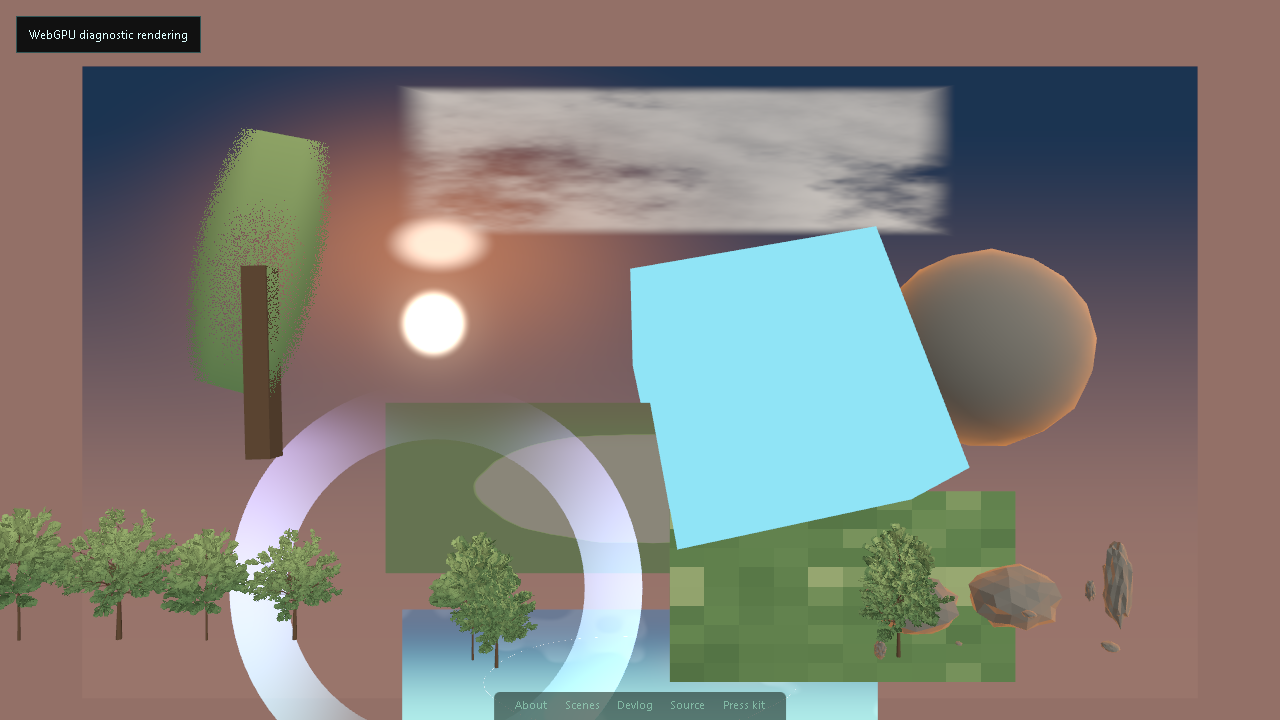
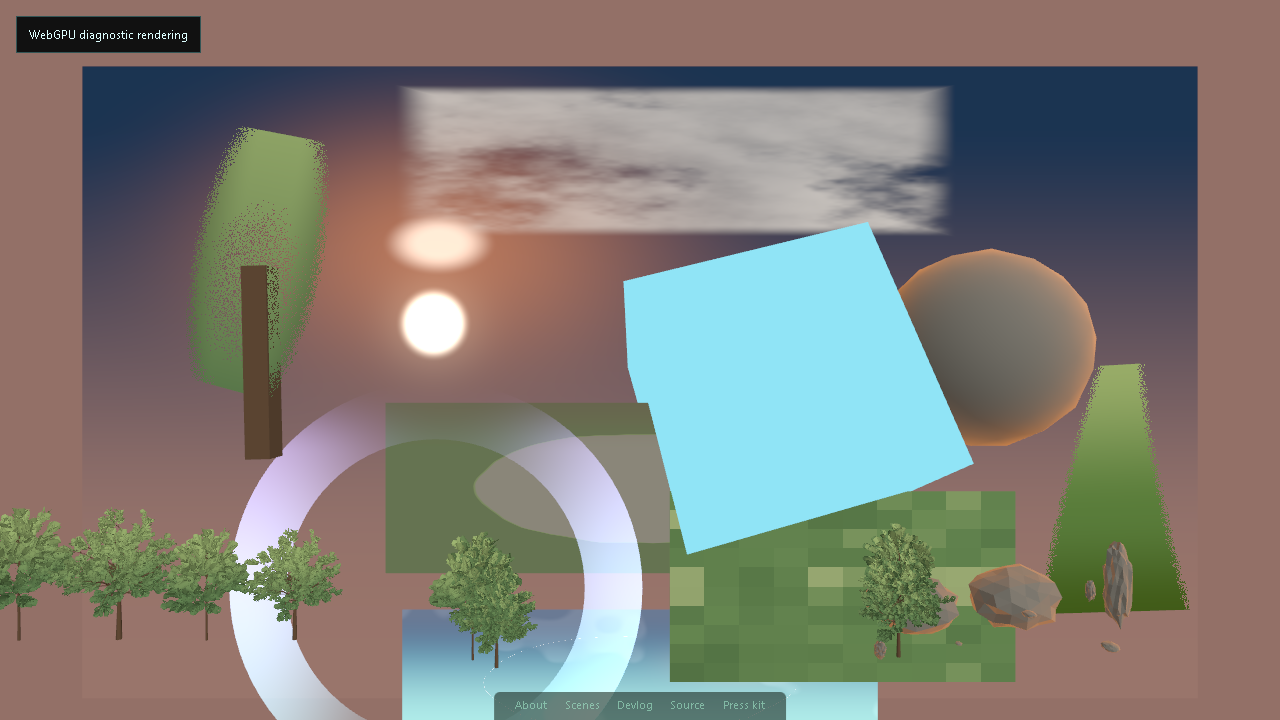
feat(konveyor): add grass blade island

diff --git a/js/diagnostics/webgpuDiagnostic.js b/js/diagnostics/webgpuDiagnostic.js
@@ -275,6 +275,29 @@ export function createTreeLeafDiagnosticState() {
     };
 }
 
+export function createGrassBladeDiagnosticState(skyFog = createSkyFogDiagnosticState()) {
+    return {
+        baseColor: [0.08, 0.28, 0.04],
+        midColor: [0.18, 0.48, 0.12],
+        tipColor: [0.55, 0.82, 0.30],
+        windDirection: [0.7, 0.7],
+        windStrength: 0.12,
+        windSpeed: 0.6,
+        gustStrength: 0.05,
+        bladeHeight: 1.0,
+        sunColor: skyFog.sunColor,
+        sunDirection: skyFog.sunDirection,
+        fogColor: skyFog.fogColor,
+        fogNear: skyFog.fogNear,
+        fogFar: skyFog.fogFar,
+        alphaHash: true,
+        alphaTest: 0.06,
+        interaction: 'deferred',
+        distanceFade: 'deferred',
+        source: 'GrassSystem.shader-contract',
+    };
+}
+
 async function createDiagnosticHeightTexture({
     DataTexture,
     RedFormat,
@@ -394,6 +417,69 @@ function syncDiagnosticHeightfieldState(target, heightfield) {
     target.peakHeight = heightfield.peakHeight;
 }
 
+function createGrassBladeNodeMaterial({ MeshStandardNodeMaterial, DoubleSide, TSL }, grassBlade) {
+    const { abs, clamp, dot, float, length, max, mix, normalize, positionLocal, positionView, positionWorld, pow, sin, smoothstep, time, uv, vec2, vec3 } = TSL;
+    const bladeUv = uv();
+    const height01 = clamp(positionLocal.y.div(Math.max(grassBlade.bladeHeight, 0.001)), 0.0, 1.0);
+    const windDir = normalize(vec2(...grassBlade.windDirection));
+    const windPerp = vec2(-grassBlade.windDirection[1], grassBlade.windDirection[0]);
+    const windPower = height01.mul(height01);
+    const worldX = positionWorld.x;
+    const worldZ = positionWorld.z;
+    const gustFlow = time.mul(grassBlade.windSpeed * 1.5);
+    const gustA = sin(worldX.mul(0.045).add(worldZ.mul(0.038)).sub(gustFlow));
+    const gustB = sin(worldX.mul(0.022).add(worldZ.mul(0.029)).add(1.7).sub(gustFlow.mul(0.72)));
+    const gustEnv = smoothstep(-0.2, 1.0, gustA.mul(0.6).add(gustB.mul(0.4)));
+    const swayTime = time.mul(grassBlade.windSpeed);
+    const sway1 = sin(worldX.mul(0.13).add(worldZ.mul(0.09)).add(swayTime.mul(0.85)));
+    const sway2 = sin(worldX.mul(0.07).sub(worldZ.mul(0.11)).add(swayTime.mul(0.55)).add(1.3));
+    const sway = sway1.mul(0.6).add(sway2.mul(0.4));
+    const carrier = float(0.45).add(sway.mul(0.5).mul(float(0.4).add(gustEnv.mul(0.8))));
+    const tipMask = smoothstep(0.65, 1.0, height01);
+    const flutter = sin(worldX.mul(0.7).add(worldZ.mul(0.6)).add(time.mul(4.5)));
+    const windDisp = windDir.mul(carrier.mul(grassBlade.windStrength).mul(windPower))
+        .add(windPerp.mul(flutter.mul(0.06 * grassBlade.windStrength).mul(tipMask)));
+    const centerDist = abs(bladeUv.x.sub(0.5)).mul(2.0);
+    const taperWidth = mix(0.9, 0.18, height01);
+    const bladeShape = float(1.0).sub(smoothstep(taperWidth, taperWidth.add(0.16), centerDist));
+    const gradient = mix(
+        mix(vec3(...grassBlade.baseColor), vec3(...grassBlade.midColor), smoothstep(0.0, 0.4, height01)),
+        vec3(...grassBlade.tipColor),
+        smoothstep(0.4, 1.0, height01)
+    );
+    const colorVariation = smoothstep(-1.0, 1.0, sin(worldX.mul(0.2).add(worldZ.mul(0.15))));
+    const variation = vec3(
+        colorVariation.mul(0.08),
+        colorVariation.mul(0.05).sub(0.02),
+        colorVariation.mul(-0.03)
+    );
+    const ao = mix(0.7, 1.0, height01);
+    const sunLift = max(dot(normalize(vec3(...grassBlade.sunDirection)), vec3(0.0, 1.0, 0.0)), 0.0);
+    const sunTip = vec3(...grassBlade.sunColor).mul(tipMask.mul(sunLift).mul(0.16 + grassBlade.gustStrength));
+    const viewDir = normalize(positionView.negate());
+    const verticalRim = pow(max(dot(viewDir, vec3(0.0, 1.0, 0.0)), 0.0), 4.0);
+    const viewDistance = length(positionView);
+    const fogBlend = smoothstep(grassBlade.fogNear, grassBlade.fogFar, viewDistance).mul(0.55);
+
+    const material = new MeshStandardNodeMaterial();
+    material.name = 'konveyor-node-grass-blade';
+    material.colorNode = mix(
+        gradient.add(variation).mul(ao)
+            .add(sunTip)
+            .add(vec3(...grassBlade.tipColor).mul(verticalRim.mul(0.2).mul(tipMask))),
+        vec3(...grassBlade.fogColor),
+        fogBlend
+    );
+    material.opacityNode = bladeShape;
+    material.positionNode = positionLocal.add(vec3(windDisp.x, 0.0, windDisp.y));
+    material.roughnessNode = float(0.96);
+    material.metalnessNode = float(0.0);
+    material.alphaHash = grassBlade.alphaHash;
+    material.alphaTest = grassBlade.alphaTest;
+    material.side = DoubleSide;
+    return material;
+}
+
 function createSkyFogNodeMaterial({ MeshBasicNodeMaterial, TSL }, skyFog) {
     const { float, length, mix, pow, smoothstep, uv, vec2, vec3 } = TSL;
     const skyUv = uv();
@@ -495,18 +581,20 @@ export async function bootWebGpuDiagnostic() {
     const animeWater = createAnimeWaterDiagnosticState(skyFog);
     const terrainHeightfield = createTerrainHeightfieldDiagnosticState(skyFog);
     const treeLeaf = createTreeLeafDiagnosticState();
+    const grassBlade = createGrassBladeDiagnosticState(skyFog);
     const state = window.__sdsG = {
         ...(window.__sdsG || {}),
         r: true,
         requested: true,
         ok: false,
         renderer: 'webgpu',
-        islands: ['sun-billboard', 'portal-ring', 'meadow-quad', 'cloud-plane', 'sky-fog', 'rock-rim', 'tree-leaf', 'anime-water', 'terrain-heightfield', 'glb-material-replacement', 'runtime-glb-material-proof', 'runtime-glb-rendered-clones', 'production-placement-preview', 'production-instanced-tree-preview', 'diagnostic-rock-instancing-preview'],
+        islands: ['sun-billboard', 'portal-ring', 'meadow-quad', 'cloud-plane', 'sky-fog', 'rock-rim', 'tree-leaf', 'grass-blade', 'anime-water', 'terrain-heightfield', 'glb-material-replacement', 'runtime-glb-material-proof', 'runtime-glb-rendered-clones', 'production-placement-preview', 'production-instanced-tree-preview', 'diagnostic-rock-instancing-preview'],
         skyFog,
         rockRim,
         animeWater,
         terrainHeightfield,
         treeLeaf,
+        grassBlade,
         materialReplacement: null,
         runtimeGlbReplacement: null,
         runtimeGlbPreview: null,
@@ -723,6 +811,16 @@ export async function bootWebGpuDiagnostic() {
     terrainPatch.position.set(0.0, -0.34, 0.08);
     scene.add(terrainPatch);
 
+    const grassBladeGeometry = new PlaneGeometry(0.58, grassBlade.bladeHeight, 4, 8);
+    grassBladeGeometry.translate(0, grassBlade.bladeHeight * 0.5, 0);
+    const grassBladeMesh = new Mesh(
+        grassBladeGeometry,
+        createGrassBladeNodeMaterial({ MeshStandardNodeMaterial, DoubleSide, TSL }, grassBlade)
+    );
+    grassBladeMesh.position.set(1.92, -0.82, 0.2);
+    grassBladeMesh.rotation.set(0, -0.08, 0.06);
+    scene.add(grassBladeMesh);
+
     const cloudPlane = new Mesh(
         new PlaneGeometry(2.4, 0.65, 1, 1),
         createCloudPlaneNodeMaterial({ MeshBasicNodeMaterial, DoubleSide, TSL })
@@ -773,6 +871,8 @@ export async function bootWebGpuDiagnostic() {
         water.material.dispose();
         terrainPatch.geometry.dispose();
         terrainPatch.material.dispose();
+        grassBladeMesh.geometry.dispose();
+        grassBladeMesh.material.dispose();
         waterHeightTexture.dispose();
         cloudPlane.geometry.dispose();
         cloudPlane.material.dispose();

diff --git a/tests/webgpu-diagnostic.spec.js b/tests/webgpu-diagnostic.spec.js
@@ -3,6 +3,7 @@ import * as THREE from 'three';
 
 import {
   createAnimeWaterDiagnosticState,
+  createGrassBladeDiagnosticState,
   createRockRimDiagnosticState,
   createSkyFogDiagnosticState,
   createTerrainHeightfieldDiagnosticState,
@@ -137,6 +138,28 @@ describe('webgpu diagnostic sky fog state', () => {
     expect(treeLeaf.alphaHash).toBe(true);
     expect(treeLeaf.occluderStrength).toBeGreaterThan(0);
     expect(treeLeaf.occluderPeak).toBeGreaterThan(0);
+  });
+
+  it('keeps the grass blade diagnostic tied to production grass defaults and sky fog', () => {
+    const skyFog = createSkyFogDiagnosticState();
+    const grassBlade = createGrassBladeDiagnosticState(skyFog);
+
+    expect(grassBlade.source).toBe('GrassSystem.shader-contract');
+    expect(grassBlade.baseColor).toEqual([0.08, 0.28, 0.04]);
+    expect(grassBlade.midColor).toEqual([0.18, 0.48, 0.12]);
+    expect(grassBlade.tipColor).toEqual([0.55, 0.82, 0.30]);
+    expect(grassBlade.windDirection).toEqual([0.7, 0.7]);
+    expect(grassBlade.windStrength).toBe(0.12);
+    expect(grassBlade.windSpeed).toBe(0.6);
+    expect(grassBlade.gustStrength).toBe(0.05);
+    expect(grassBlade.sunColor).toBe(skyFog.sunColor);
+    expect(grassBlade.sunDirection).toBe(skyFog.sunDirection);
+    expect(grassBlade.fogColor).toBe(skyFog.fogColor);
+    expect(grassBlade.fogNear).toBe(skyFog.fogNear);
+    expect(grassBlade.fogFar).toBe(skyFog.fogFar);
+    expect(grassBlade.alphaHash).toBe(true);
+    expect(grassBlade.interaction).toBe('deferred');
+    expect(grassBlade.distanceFade).toBe('deferred');
   });
 });
 

diff --git a/docs/archive/research/konveyor-shader-surface-inventory-2026-05-14.md b/docs/archive/research/konveyor-shader-surface-inventory-2026-05-14.md
@@ -22,8 +22,12 @@ island now covers production palette handoff, shoreline color bands, foam,
 ripples, sun glint, fog-color input, and a non-filtered `DataTexture` sample
 loaded from the real Rolling Hills heightfield. The same texture now drives a
 diagnostic terrain-heightfield material for height-based ground color and fog
-input. Production water and terrain wiring remain deferred until scene binding
-and screenshot proof cover the shipped island scenes. GLB material ownership proof now shows that tree LOD0/LOD1
+input. A diagnostic grass-blade island now covers the production grass default
+color gradient, analytic wind/gust/flutter displacement, alpha-hash posture,
+sun/fog inputs, and explicit deferral markers for interaction bending and
+distance fade. Production grass, water, and terrain wiring remain deferred
+until scene binding and screenshot proof cover the shipped island scenes. GLB
+material ownership proof now shows that tree LOD0/LOD1
 assets have stable `branches` and `leaves`
 materials, while rock assets currently expose runtime-default primitive
 materials and cannot be migrated by material name. The diagnostic island now
@@ -59,7 +63,7 @@ terrain, grass, water, sheep, or Kiln impostors.
 | 4 | Hosek-Wilkie sky | `js/atmosphere/HosekWilkieSky.js`, `js/atmosphere/skyShader.glsl.js` | Analytic sky dome and horizon color source for scene fog. | High. It anchors scene fog color and Safari precision fixes. | Diagnostic sky/fog TSL prototype now exposes a CPU horizon/sun/fog packet; production wiring still needs analytic parity and preset screenshots. | Atmosphere specs, visual cells across sun presets, mobile/Safari canary. |
 | 5 | Anime water | `js/water/AnimeWater.js` | Shoreline foam, heightfield-driven foam, ripples, sun glint, fog. | High. Samples a generated heightfield `DataTexture` and drives a visible scene focal point. | Diagnostic TSL island now covers production palette, shoreline bands, foam, ripples, sun glint, fog input, and a non-filtered `RedFormat`/`FloatType` sample loaded from `public/terrain/rolling-hills.bin`. Production wiring still needs scene-bound Rolling Hills/Open Country screenshots before replacing WebGL water. | Water shoreline specs, Rolling Hills/Open Country screenshots, latency. |
 | 6 | Terrain ground | `js/TerrainBuilder.js` | Heightfield-displaced terrain with procedural ground color and Three fog chunks. | High. It is the base surface of every production scene and uses fog chunks. | Diagnostic terrain-heightfield TSL island now samples the real Rolling Hills heightfield texture for height-based ground color and fog input. Production terrain remains WebGL. | Refactor-baseline terrain hash untouched, screenshots, perf. |
-| 7 | Grass blades | `js/GrassSystem.js`, `js/shaders/grass/*.glsl` | Instanced blade geometry, wind, interaction, LOD fade, fake SSS, manual fog. | Very high. It owns interaction feel and high-count perf. | Split: first meadow-quad TSL, then blade shader, then compute/trample experiments. | Perf, latency, visual, mobile profile, interaction smoke. |
+| 7 | Grass blades | `js/GrassSystem.js`, `js/shaders/grass/*.glsl` | Instanced blade geometry, wind, interaction, LOD fade, fake SSS, manual fog. | Very high. It owns interaction feel and high-count perf. | Diagnostic grass-blade TSL material now covers production default gradient colors, analytic wind/gust/flutter displacement, alpha hash, and sky/fog handoff. Interaction bending, distance fade, production instancing, and compute/trample experiments remain deferred. | Perf, latency, visual, mobile profile, interaction smoke. |
 | 8 | Sheep instancing | `js/OptimizedSheep.js`, `js/shaders/sheep/*.glsl` | Instanced sheep geometry, animation attributes, vertex colors, manual fog. | Very high. It touches core gameplay scale and animation feel. | TSL or WebGPU instanced material only after grass/terrain fog inputs settle. | Sim fixtures unchanged, smoke, perf high-count modes. |
 | 9 | Kiln tree impostors | `js/kiln-impostor-material.js` | Atlas-sampled tree impostors with relighting, alpha hash, fog, parallax/depth scaffolding. | Very high. It is asset-pipeline coupled and must match LOD0 color. | Keep WebGL path; prototype a TSL impostor with one species and Pixel Forge sidecar. | LOD color-match artifacts, tree visibility, perf, screenshots. |
 | 10 | Procedural mountains | `js/ProceduralMountains.js`, `js/shaders/proceduralMountainsShader.js` | Inactive standalone horizon ring. `TerrainBuilder.addMountains()` returns no meshes. | Low as a blocker, but misleading as migration scope. | Do not port now. Delete or re-scope when a real horizon ring is approved. | None until reactivated. |
@@ -176,8 +180,11 @@ comments:
 3. Keep water production wiring deferred until the diagnostic heightfield
    `DataTexture` proof is expanded beyond Rolling Hills, then backed by
    Rolling Hills/Open Country scene screenshots.
-4. Defer terrain, blade grass, sheep, and Kiln impostors until the smaller
-   islands have proved material ownership, bundle posture, and visual gates.
+4. Defer production terrain, production blade grass, sheep, and Kiln impostors
+   until the diagnostic islands have proved scene binding, bundle posture, and
+   visual gates. The grass-blade island is shader-contract evidence only; it
+   does not yet prove production instancing, entity interaction, LOD fade, or
+   high-count grass performance.
 
 ## Acceptance For The Next Code Island
 

diff --git a/progress.md b/progress.md
@@ -43,3 +43,4 @@ Current prompt for the next autonomous run: /goal On branch exp/konveyor-webgpu-
 - 2026-05-14: Extended the anime-water island with a diagnostic `RedFormat`/`FloatType` heightfield `DataTexture` sample path using nearest clamp sampling. Production water remains WebGL/default and real scene heightfield binding is still deferred, but the WebGPU diagnostic now proves texture-backed foam input. Gates passed: `npx vitest run tests\webgpu-diagnostic.spec.js`, `npm run build`, Chrome WebGPU diagnostic probe plus screenshot, `npm test`, `npm run lint`, and `npm run native:check`.
 - 2026-05-14: Replaced the synthetic water height texture proof with a diagnostic fetch of the real `public/terrain/rolling-hills.bin` plus manifest, binding it as a nearest-clamped `RedFormat`/`FloatType` `DataTexture` in the WebGPU island. Production WebGL water remains unchanged. Gates passed: `npx vitest run tests\webgpu-diagnostic.spec.js`, `npm run build`, Chrome WebGPU diagnostic probe plus screenshot, `npm test`, `npm run lint`, and `npm run native:check`; no preview/browser leftovers remained.
 - 2026-05-14: Added a diagnostic terrain-heightfield TSL island that reuses the real Rolling Hills height texture for height-based ground color and sky/fog input. Production terrain remains WebGL/default. Gates passed: `npx vitest run tests\webgpu-diagnostic.spec.js`, `npm run build`, `npm test`, `npm run lint`, `npm run native:check`, Chrome WebGPU diagnostic probe plus screenshot, and Chrome WebGL-default Rolling Hills probe; no preview/browser leftovers remained.
+- 2026-05-14: Added a diagnostic grass-blade TSL island covering production grass default gradient colors, analytic wind/gust/flutter displacement, alpha-hash posture, and sky/fog handoff. Interaction bending, distance fade, production instancing, and compute/trample experiments remain deferred; production grass and default WebGL remain untouched.

diff --git a/docs/konveyor-sds.md b/docs/konveyor-sds.md
@@ -55,8 +55,12 @@ As of 2026-05-14, SDS is not a WebGPU project yet.
   diagnostic anime-water material covering palette, shoreline bands, foam,
   ripples, sun glint, fog input, and a non-filtered float texture loaded from
   the real Rolling Hills heightfield. A terrain-heightfield diagnostic material
-  reuses that texture for height-based ground color and fog input. Production
-  Rolling Hills/Open Country replacement remains deferred before water/terrain
+  reuses that texture for height-based ground color and fog input. A
+  grass-blade diagnostic material covers the production default gradient colors,
+  analytic wind/gust/flutter displacement, alpha-hash posture, and sky/fog
+  handoff while explicitly deferring interaction bending, distance fade,
+  production instancing, and compute/trample experiments. Production Rolling
+  Hills/Open Country replacement remains deferred before water/terrain/grass
   wiring. A
   diagnostic material-replacement island proves tree replacement by
   `branches`/`leaves` material names and rock replacement by traversal. GLB

diff --git a/docs/konveyor-autonomous-run.md b/docs/konveyor-autonomous-run.md
@@ -151,8 +151,11 @@ Recommended order:
    fog-color inputs, and a non-filtered float texture loaded from the real
    Rolling Hills heightfield. The terrain-heightfield diagnostic island reuses
    that texture for height-based ground color and fog input while deferring
-   production scene replacement.
-   the rock-rim TSL prototype covers the smallest `onBeforeCompile`
+   production scene replacement. The grass-blade diagnostic island now covers
+   production default gradient colors, analytic wind/gust/flutter displacement,
+   alpha-hash posture, and sky/fog handoff while explicitly deferring
+   interaction bending, distance fade, production instancing, and compute
+   experiments. The rock-rim TSL prototype covers the smallest `onBeforeCompile`
    replacement formula, and the tree-leaf TSL prototype covers wind,
    alpha-hash posture, and occluder fade inputs. GLB material ownership proof
    and a diagnostic replacement proof now exist, plus a GLB primitive-clone
